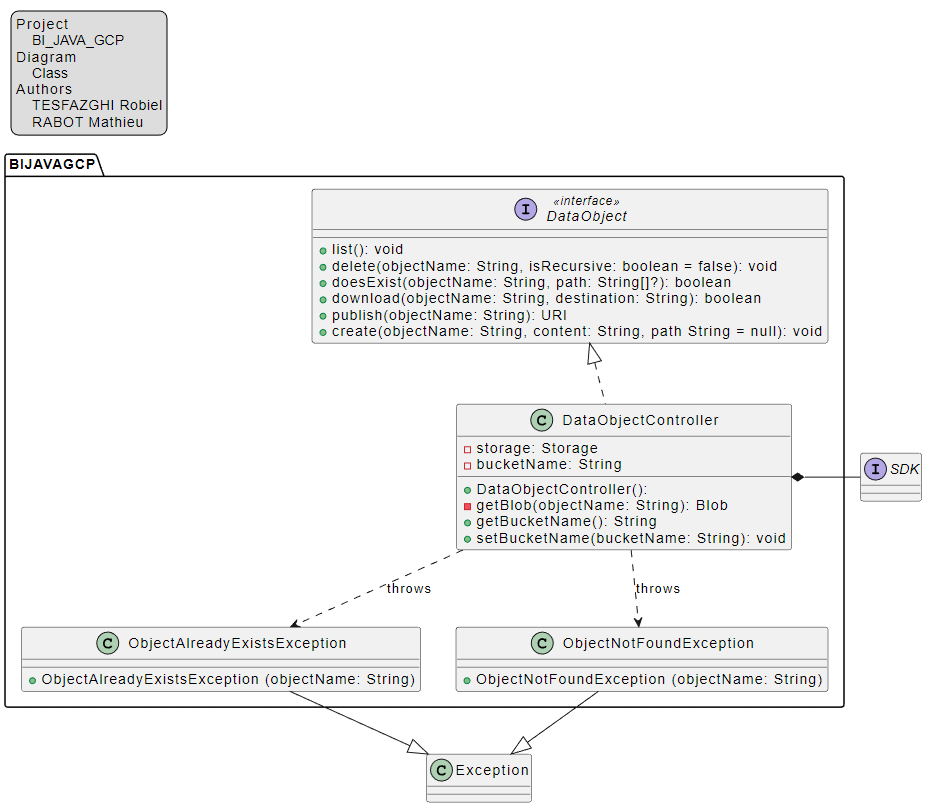
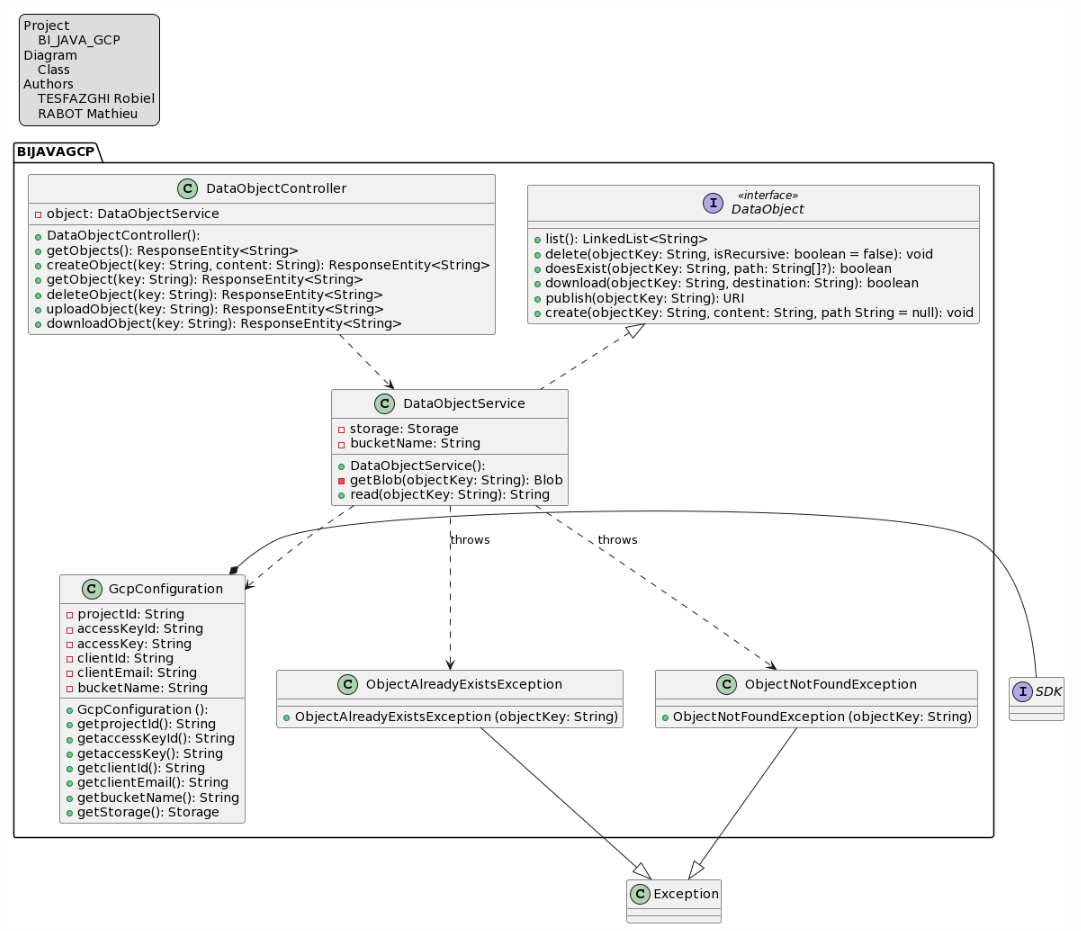
Update class diagram

Changed region(s): [[0.0, 0.0, 0.9968, 1.0], [0.841, 0.5542, 0.8722, 0.6158], [0.2492, 0.5542, 0.3115, 0.585]]

diff --git a/src/main/java/com/cpnv/bijavagcp/api/DataObjectController.java b/src/main/java/com/cpnv/bijavagcp/api/DataObjectController.java
@@ -21,7 +21,7 @@ public class DataObjectController {
         object = new DataObjectService();
     }
     @GetMapping("/objects")
-    public ResponseEntity<LinkedList<String>> getList() {
+    public ResponseEntity<LinkedList<String>> getObjects() {
         LinkedList<String> list = object.list();
         if (list != null) {
             return new ResponseEntity<>(list, HttpStatus.OK);
@@ -29,7 +29,7 @@ public class DataObjectController {
         return new ResponseEntity<>(HttpStatus.NOT_FOUND);
     }
     @PostMapping("objects")
-    public ResponseEntity<String> create(@RequestParam String key, String content) {
+    public ResponseEntity<String> createObject(@RequestParam String key, String content) {
         try {
             object.create(key, content);
             return new ResponseEntity<>(key + " created", HttpStatus.CREATED);

diff --git a/src/main/java/com/cpnv/bijavagcp/services/DataObjectService.java b/src/main/java/com/cpnv/bijavagcp/services/DataObjectService.java
@@ -98,8 +98,8 @@ public class DataObjectService implements DataObject {
             return URI.create(blob.signUrl(2, TimeUnit.DAYS).toString());
         }
     }
-    public String read(String name) {
-        Blob blob = getBlob(name);
+    public String read(String objectKey) {
+        Blob blob = getBlob(objectKey);
         return new String(blob.getContent());
     }
 }
